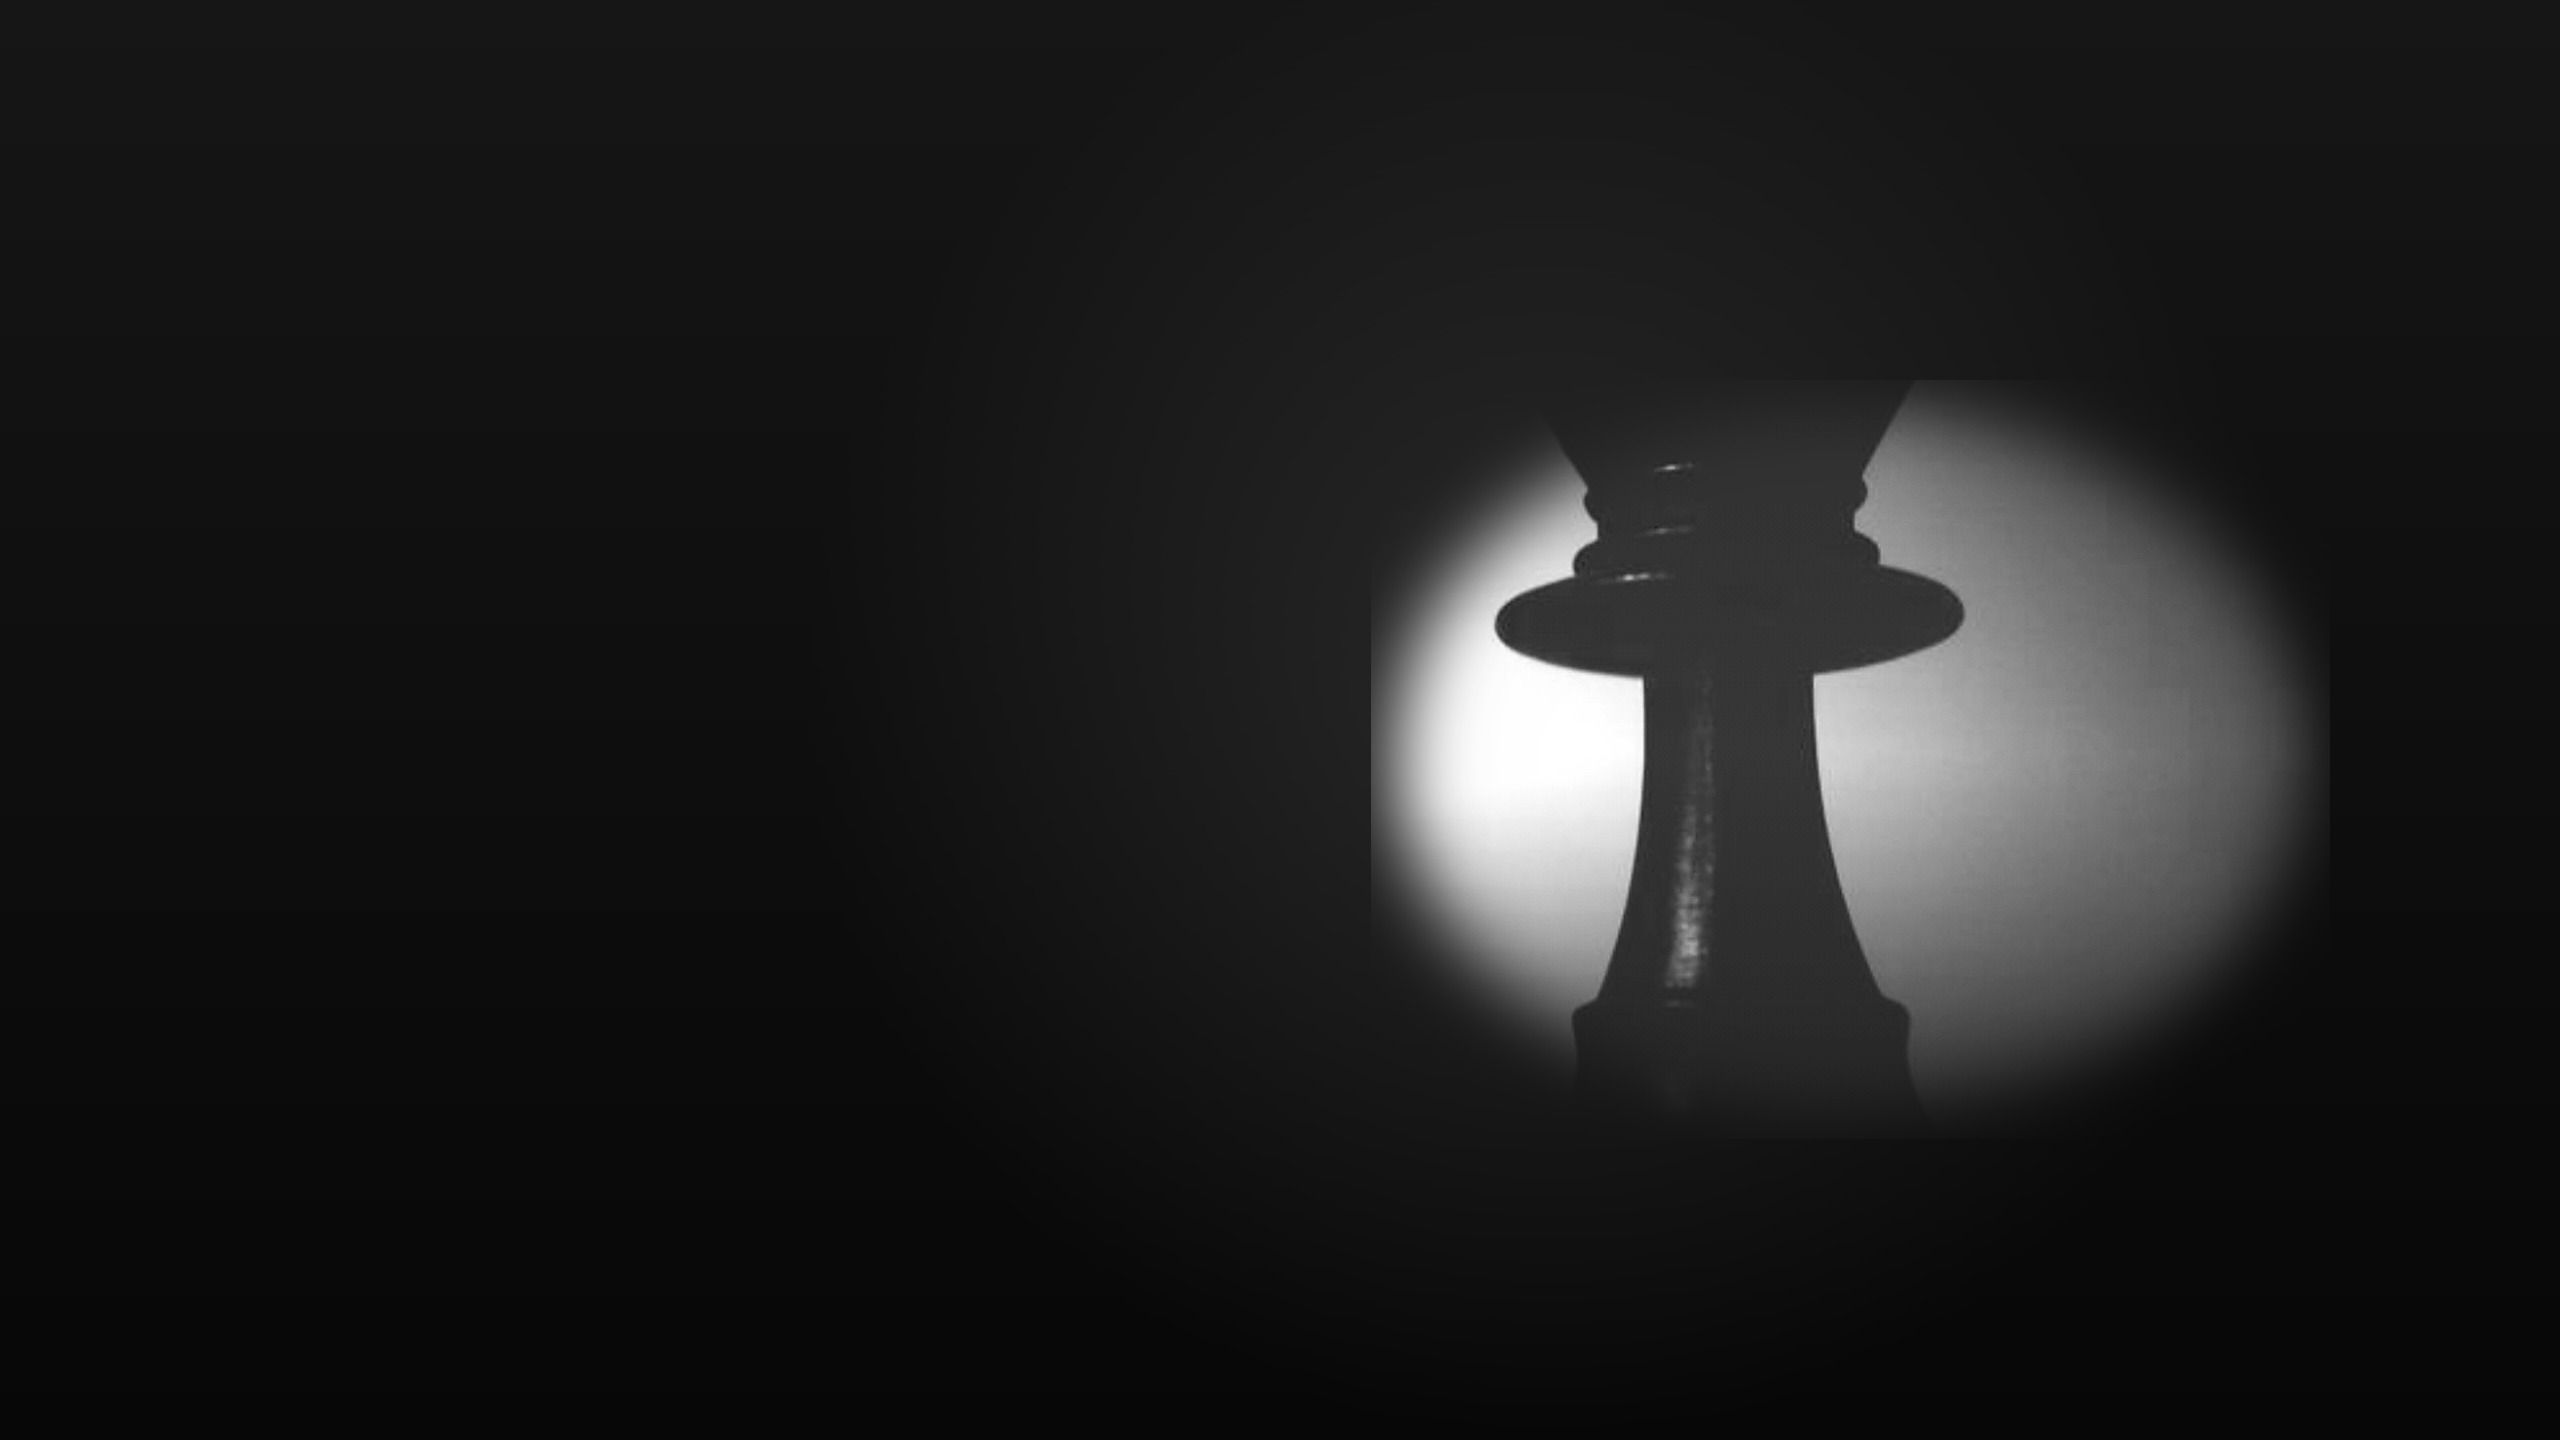
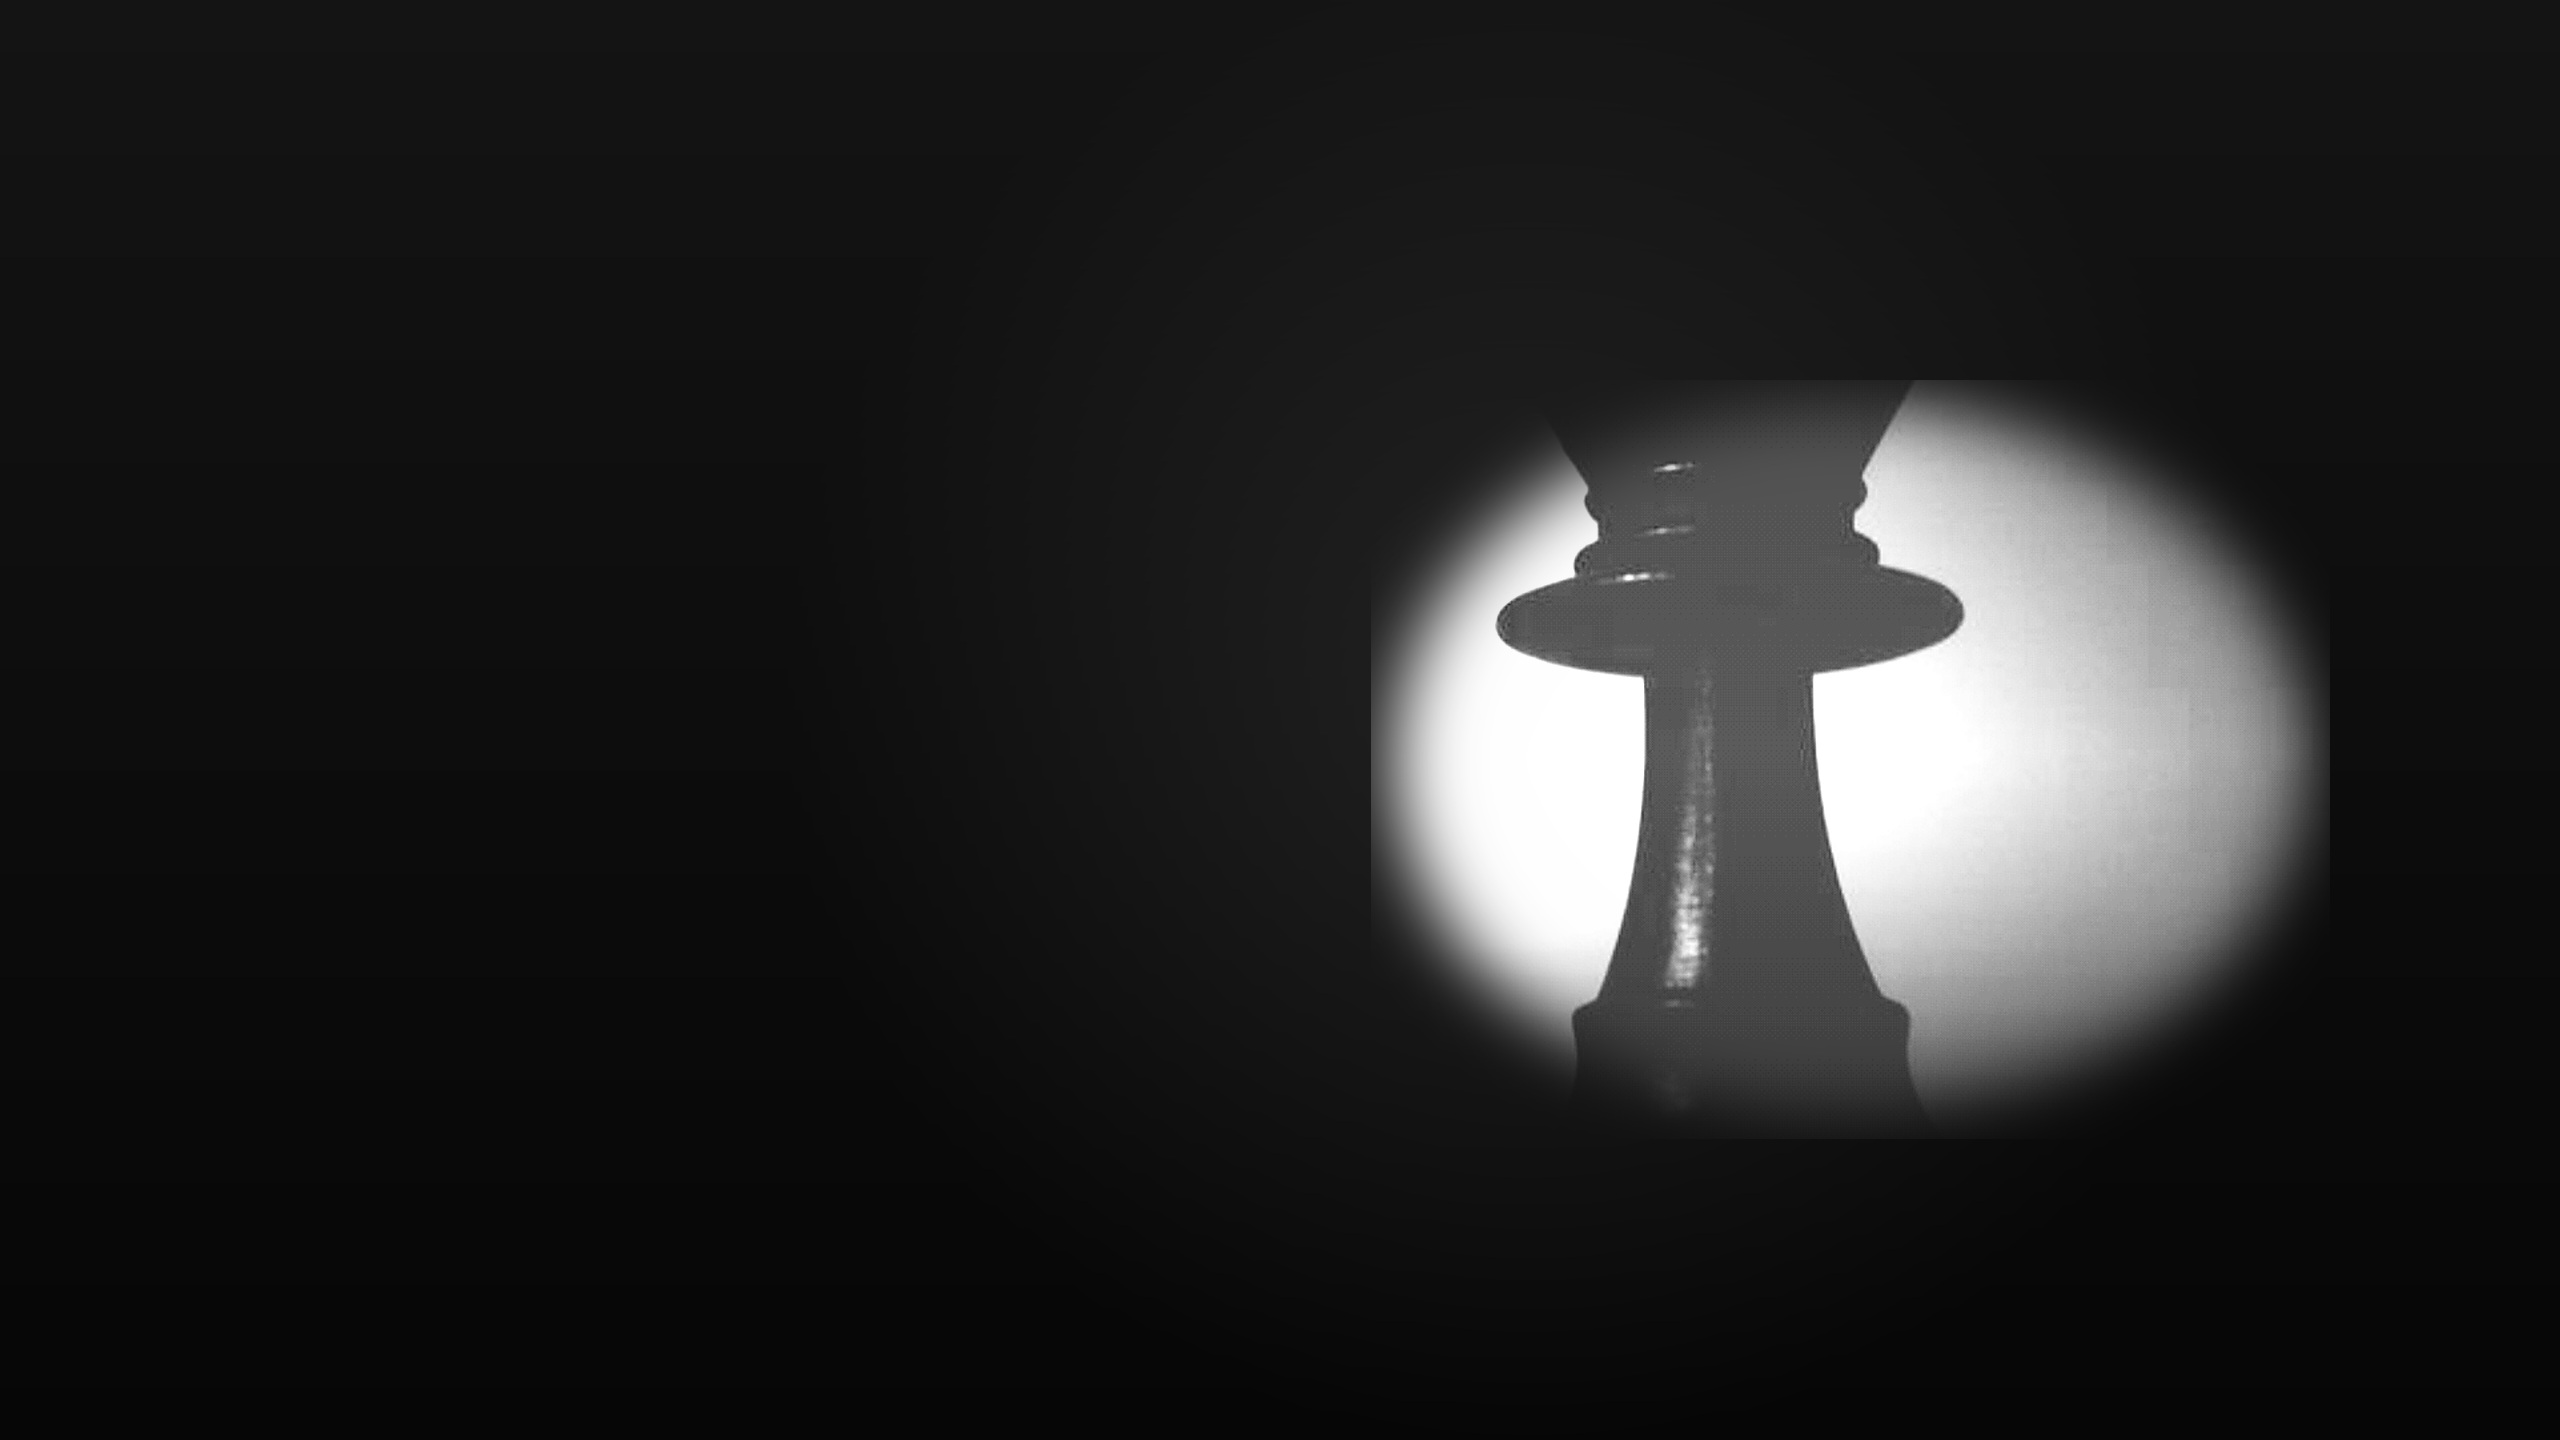
Edit src/routes/index.tsx

Changed region(s): [[0.5312, 0.2812, 0.9062, 0.7812]]

diff --git a/src/routes/index.tsx b/src/routes/index.tsx
@@ -2,8 +2,8 @@ import { createFileRoute } from "@tanstack/react-router";
 import { HomePage } from "@/pages/HomePage";
 import { loadHomeData } from "@/lib/home-data";
 
-// Hero image lives in public/chess-cover.jpg.
-const COVER_IMAGE = "/chess-cover.jpg";
+// Hero image lives in public/hero-chess.jpg (the photographic backdrop actually rendered).
+const COVER_IMAGE = "/hero-chess.jpg";
 
 export const Route = createFileRoute("/")({
   // Runs on the server for the first visit, so the HTML already contains the content.
